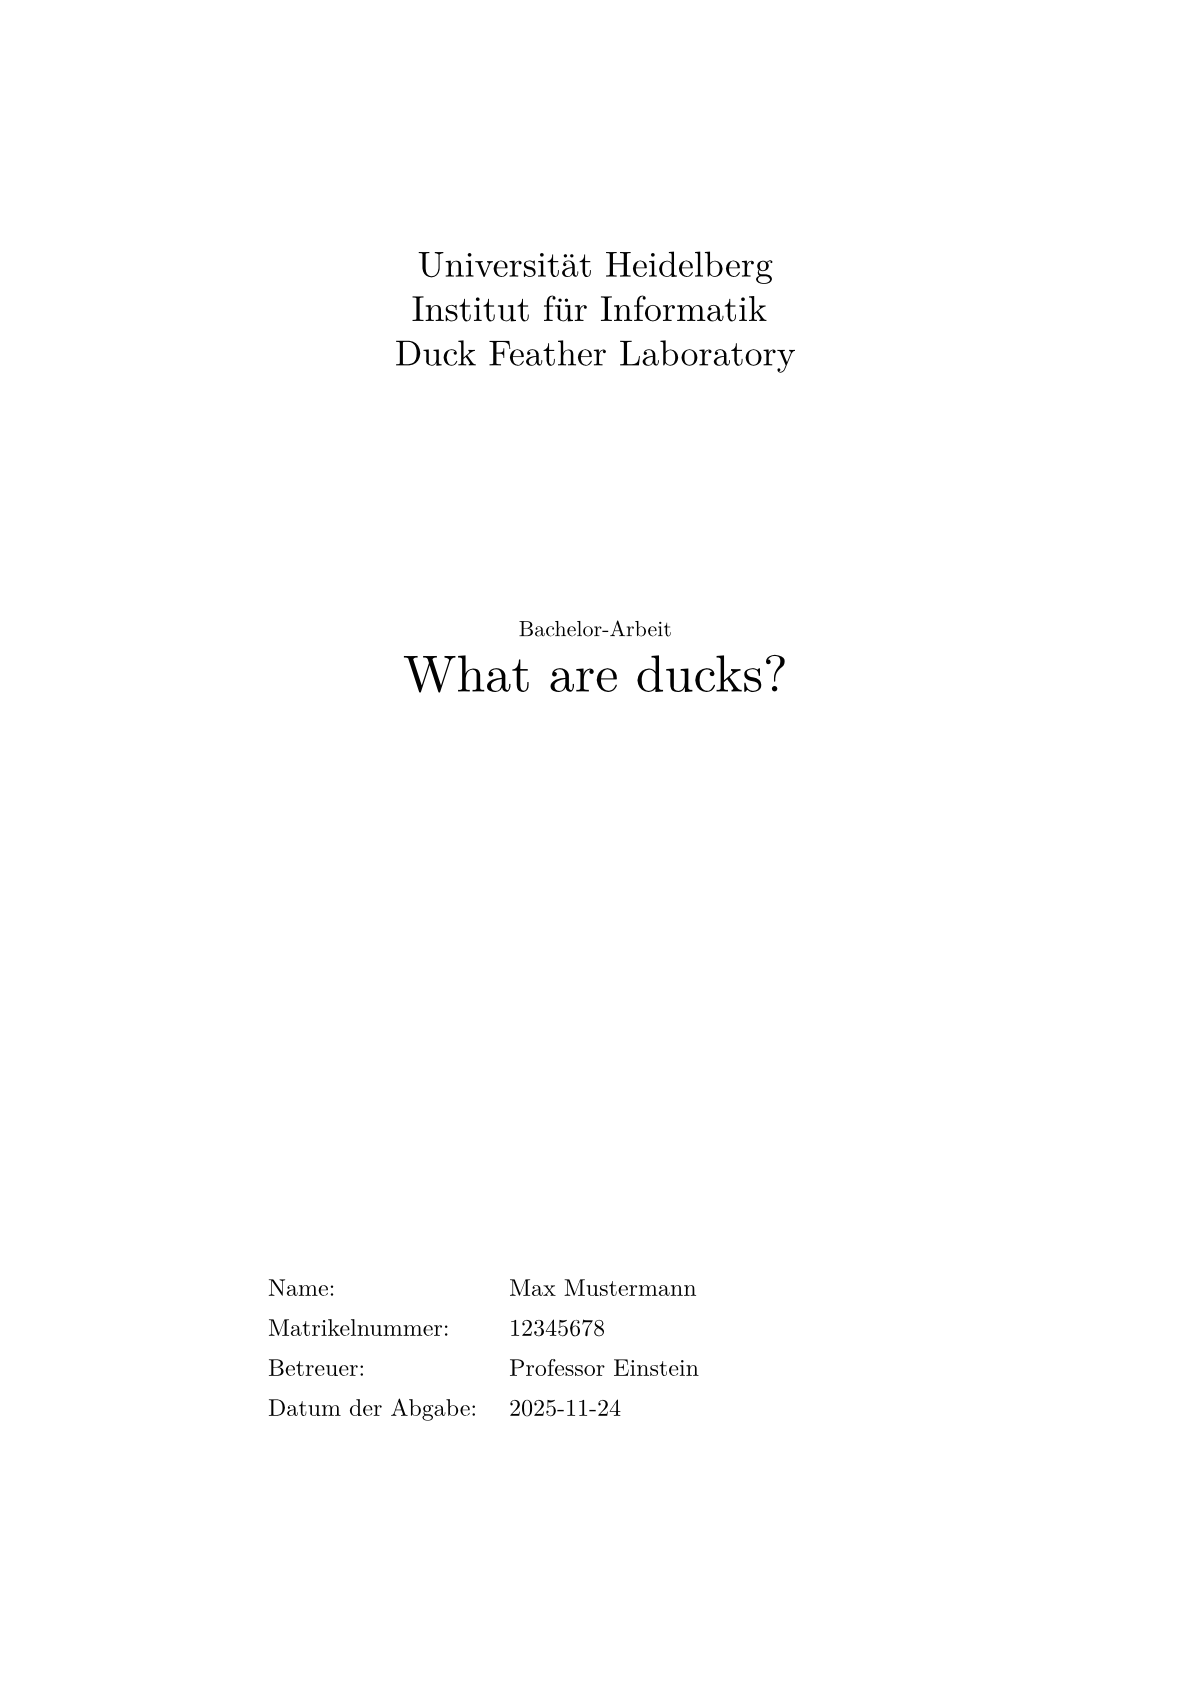
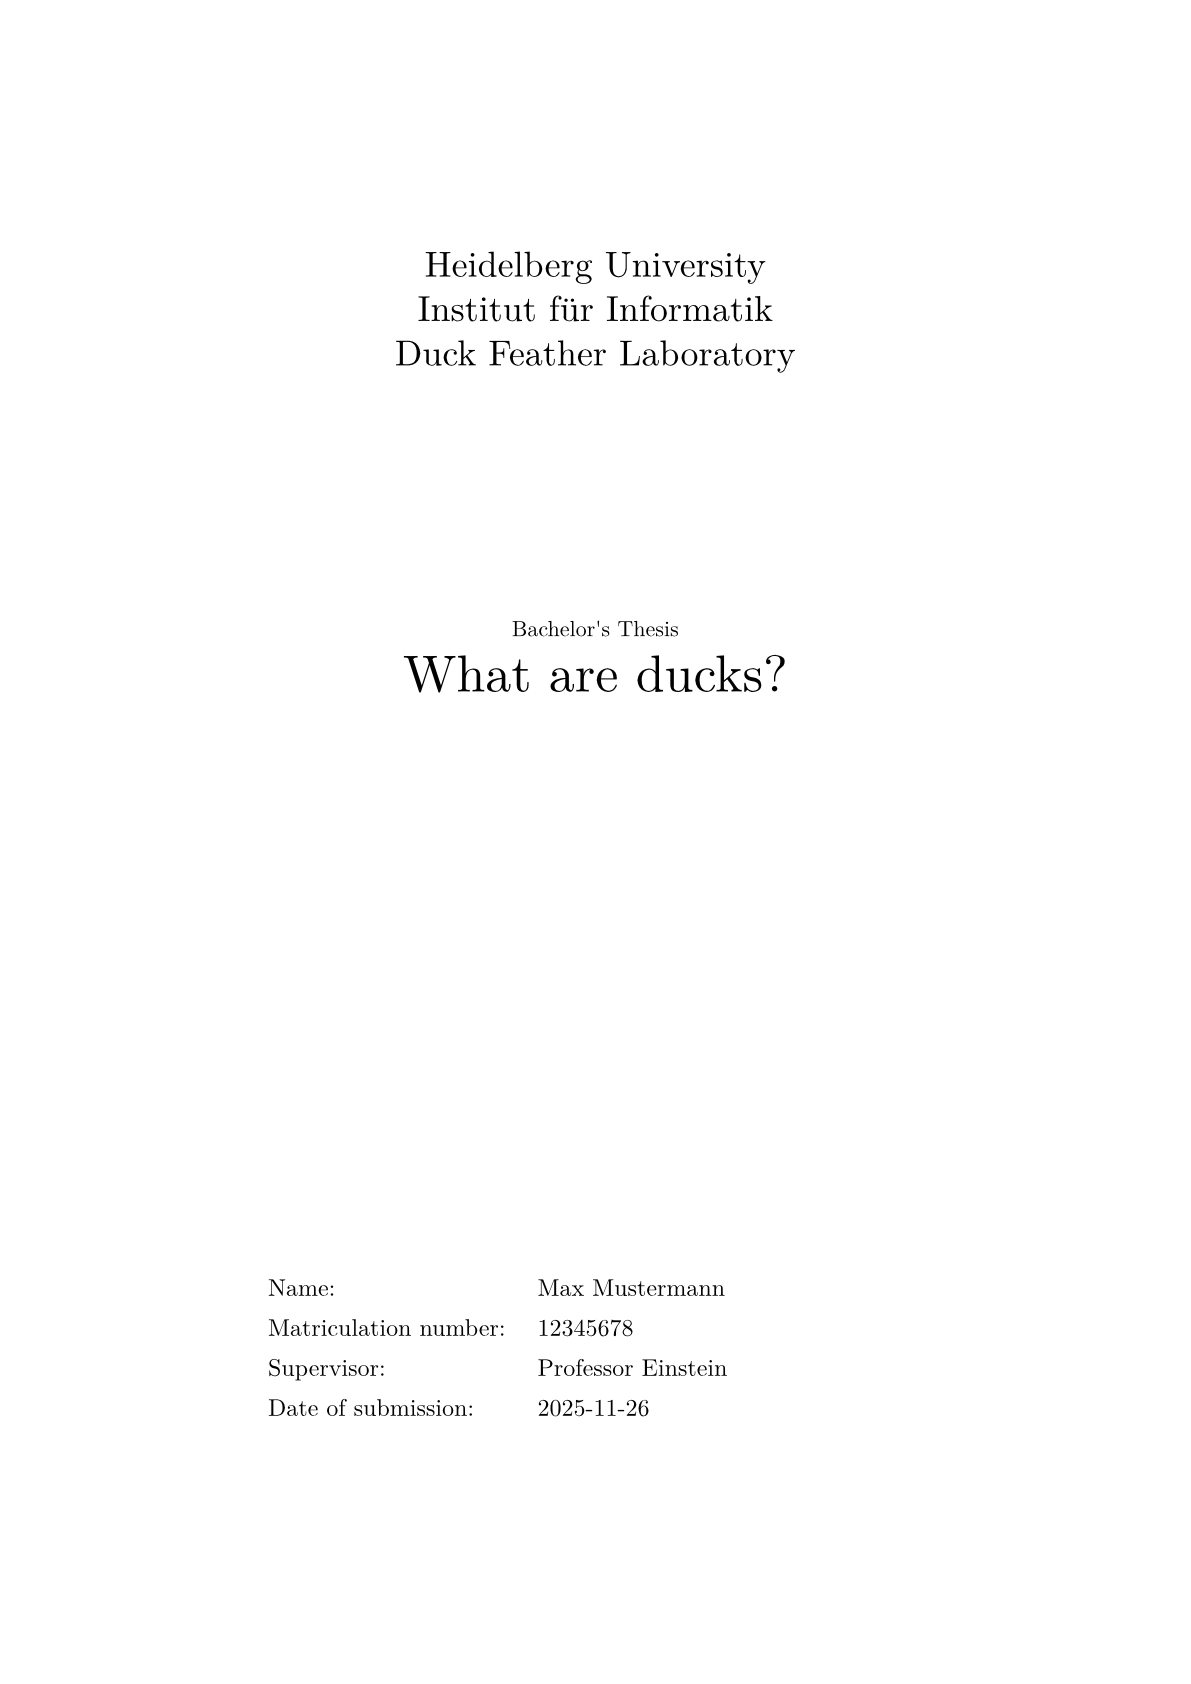
feat: update package name, documentation, repo url and separate examples into german and english

diff --git a/packages/preview/covered-cs-thesis/0.1.5/README.md b/packages/preview/covered-cs-thesis/0.1.5/README.md
@@ -1,6 +1,12 @@
-# Computer Science Bachelor or Master Thesis Typst Template for the University Heidelberg
+<div align="center">
 
-A template for writing a bachelor's or master's computer science thesis at the University Heidelberg.
+# `covered-cs-thesis`
+
+**A template for writing a bachelor's or master's computer science thesis at the University Heidelberg.**
+
+</div>
+
+The cover is available in **english** and **german**! Switch the language via the `language` option (see the Usage).
 
 ## Usage
 
@@ -20,11 +26,11 @@ Or use the cover function standalone:
   /// Your matriculation number (Matrikelnummer) [string]
   matriculation-number: "12345678",
   /// What your thesis is (bachelor/master) [string]
-  thesis-type: "Bachelor-Arbeit",
+  thesis-type: "Bachelor's Thesis",
   /// The title of your thesis [string]
   title: "What are ducks?",
   /// Your university [string]
-  university: "Universität Heidelberg",
+  university: "Heidelberg University",
   /// Your institute [string]
   institute: "Institut für Informatik",
   /// The working group that supervises your thesis [string]
@@ -34,6 +40,25 @@ Or use the cover function standalone:
   /// The date of your submission [anything]
   date-submission: [#datetime.today().display()],
   /// Language of your thesis ["en" OR "de"]
+  /// This switches in what language your cover is displayed.
+  language: "en",
+)
+```
+
+For a cover in German:
+```typ
+#import "@preview/covered-cs-thesis:0.1.5": *
+
+#cs-thesis-cover(
+  author: "Max Mustermann",
+  matriculation-number: "12345678",
+  thesis-type: "Bachelor-Arbeit",
+  title: "Was sind Enten?",
+  university: "Universität Heidelberg",
+  institute: "Institut für Informatik",
+  working-group: "Enten Labor",
+  supervisor: "Professor Einstein",
+  date-submission: [#datetime.today().display("[day].[month].[year]")],
   language: "de",
 )
 ```
@@ -45,4 +70,9 @@ This template is licensed under the [Unlicense license](./LICENSE).
 
 ## Images
 
+* [English example pdf](https://github.com/WyvernIXTL/computer-science-heidelberg-thesis-typst-template/releases/download/v0.1.5/covered-cs-thesis-0.1.5-english-example.pdf)
+* [German example pdf](https://github.com/WyvernIXTL/computer-science-heidelberg-thesis-typst-template/releases/download/v0.1.5/covered-cs-thesis-0.1.5-german-example.pdf)
+
 ![thumbnail](./thumbnail.png)
+
+![thumbnail german](./images/thumbnail-de.png)

diff --git a/packages/preview/covered-cs-thesis/0.1.5/CHANGELOG.md b/packages/preview/covered-cs-thesis/0.1.5/CHANGELOG.md
@@ -5,7 +5,7 @@ All notable changes to this project will be documented in this file.
 The format is based on [Keep a Changelog](https://keepachangelog.com/en/1.1.0/),
 and this project adheres to [Semantic Versioning](https://semver.org/spec/v2.0.0.html).
 
-## [Unreleased]
+## Unreleased
 
 ### Added
 
@@ -19,11 +19,23 @@ and this project adheres to [Semantic Versioning](https://semver.org/spec/v2.0.0
 
 ### Security
 
-## [0.1.0] - 2025-01-01
+## 0.1.5 - 2025-11-26
+
+### Added
+
+* Separated german and english examples. 
+
+
+### Changed
+
+* Package name to `covered-cs-thesis`.
+
+### Fixed
+
+* Example image using mixed languages.
+
+
+## 0.1.0 - 2025-11-23
 
 Initial version with cover and declaration of independence.
 
-
-
-[Unreleased]: https://github.com/WyvernIXTL/computer-science-heidelberg-thesis-typst-template/compare/v0.1.0...HEAD
-[0.1.0]: https://github.com/WyvernIXTL/computer-science-heidelberg-thesis-typst-template/releases/tag/v0.1.0
